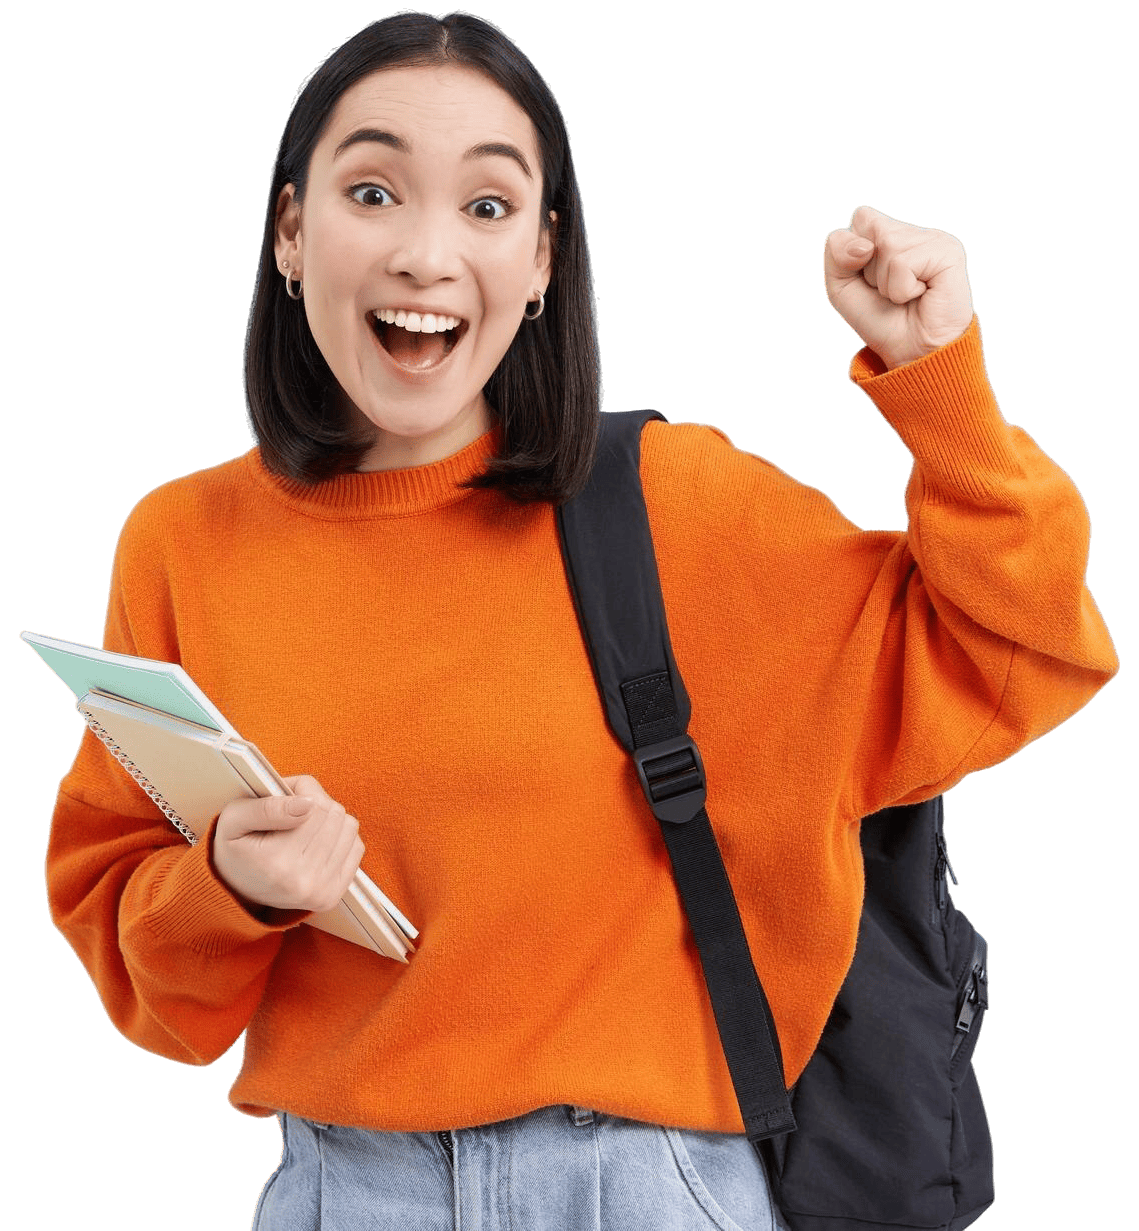
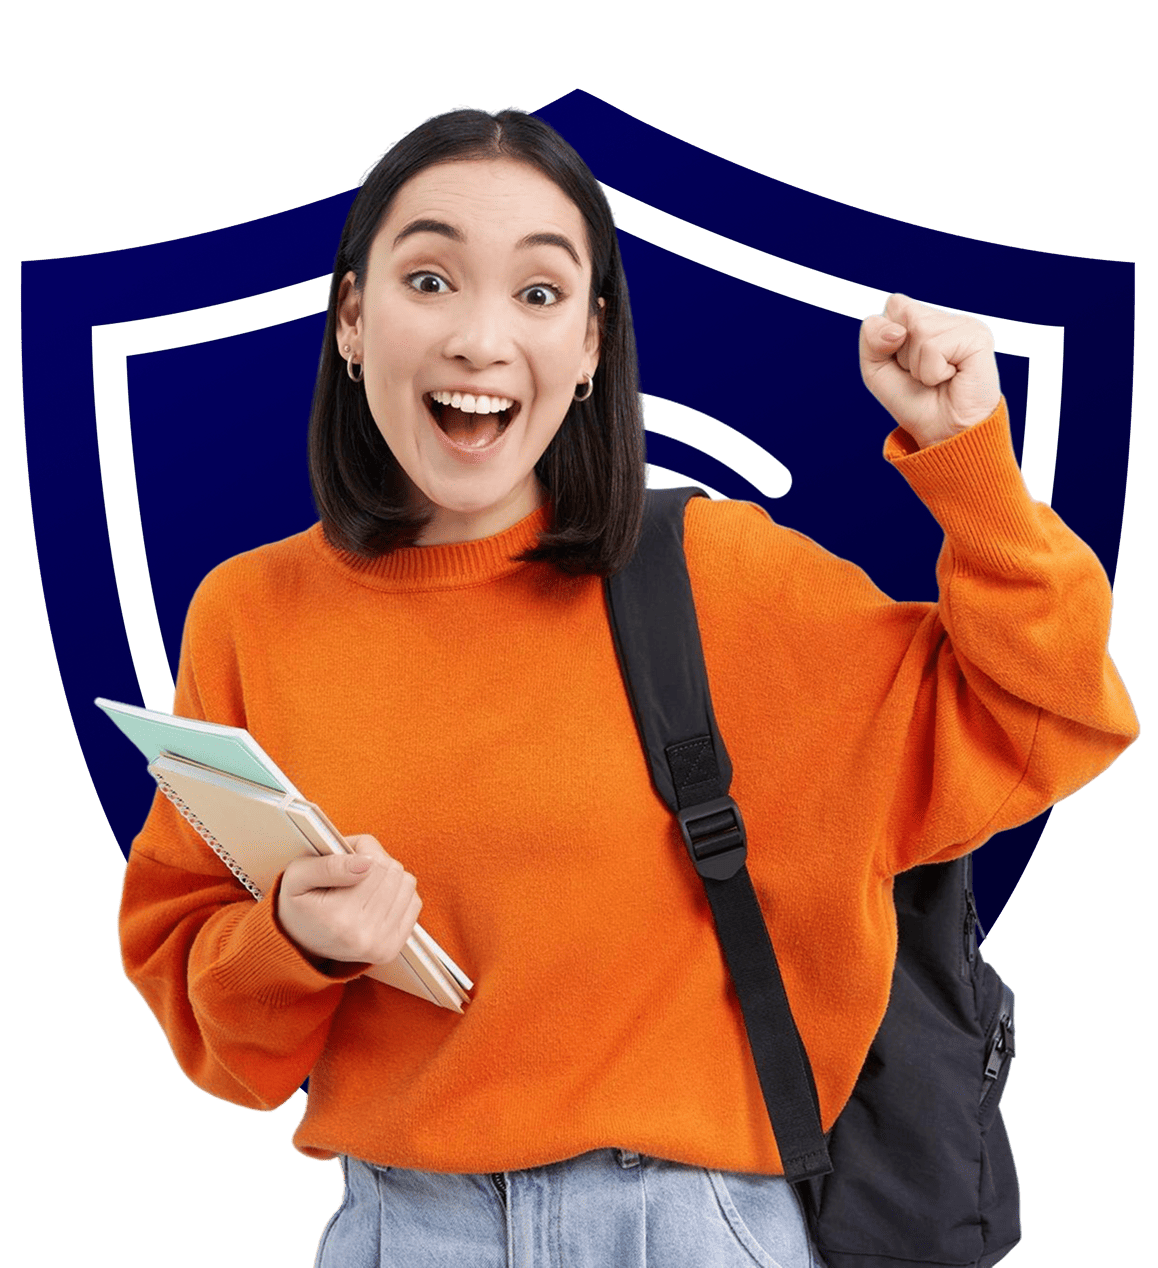
updates

diff --git a/index.html b/index.html
@@ -600,23 +600,51 @@
     }
 
     .hero-image {
+      position: relative;
       display: flex;
       justify-content: center;
-      align-items: stretch;
+      align-items: flex-end;
       height: 100%;
       min-height: 600px;
+      overflow: hidden;
+      padding: 0;
+      margin: 0;
+    }
+
+    .hero-image::before {
+      content: "";
+      position: absolute;
+      top: 45%;
+      left: 50%;
+      width: 100%;
+      height: 100%;
+      background-image: url('shield.png');
+      background-size: contain;
+      background-repeat: no-repeat;
+      background-position: center;
+      transform: translate(-50%, -50%) scale(0.8);
+      z-index: 1;
+      opacity: 0;
+      animation: shieldEntrance 2s cubic-bezier(0.4, 0, 0.2, 1) 1s forwards,
+                 shieldPulse 4s ease-in-out 3s infinite,
+                 shieldFloat 6s ease-in-out 3s infinite;
+      filter: drop-shadow(0 0 20px rgba(30, 58, 138, 0.3));
     }
 
     .hero-image img {
       width: 100%;
       height: 100%;
       object-fit: cover;
-      object-position: center;
+      object-position: center bottom;
       border-radius: 20px;
       opacity: 0;
       transform: translateX(60px) scale(0.9);
       animation: slideInRight 1.4s cubic-bezier(0.4, 0, 0.2, 1) 0.6s forwards;
       transition: transform 0.4s cubic-bezier(0.4, 0, 0.2, 1);
+      display: block;
+      align-self: flex-end;
+      position: relative;
+      z-index: 2;
     }
 
     /* Background Animation Keyframes */
@@ -1857,7 +1885,7 @@
       transition: all 0.3s ease;
       border: 2px solid transparent;
       background: linear-gradient(white, white) padding-box,
-                  linear-gradient(135deg, var(--royal-blue), var(--electric-blue)) border-box;
+        linear-gradient(135deg, var(--royal-blue), var(--electric-blue)) border-box;
     }
 
     .testimonial-info h4 {
@@ -2415,6 +2443,48 @@
       }
     }
 
+    /* Shield Animations */
+    @keyframes shieldEntrance {
+      0% {
+        opacity: 0;
+        transform: translate(-50%, -50%) scale(0.3) rotate(-10deg);
+        filter: drop-shadow(0 0 0px rgba(30, 58, 138, 0));
+      }
+      60% {
+        opacity: 0.5;
+        transform: translate(-50%, -50%) scale(1.1) rotate(2deg);
+        filter: drop-shadow(0 0 25px rgba(30, 58, 138, 0.4));
+      }
+      100% {
+        opacity: 1;
+        transform: translate(-50%, -50%) scale(1) rotate(0deg);
+        filter: drop-shadow(0 0 20px rgba(30, 58, 138, 0.3));
+      }
+    }
+
+    @keyframes shieldPulse {
+      0%, 100% {
+        /* opacity: 0.25; */
+        filter: drop-shadow(0 0 20px rgba(30, 58, 138, 0.3));
+      }
+      50% {
+        /* opacity: 0.4; */
+        filter: drop-shadow(0 0 35px rgba(30, 58, 138, 0.5));
+      }
+    }
+
+    @keyframes shieldFloat {
+      0%, 100% {
+        transform: translate(-50%, -50%) scale(1) translateY(0px) rotate(0deg);
+      }
+      33% {
+        transform: translate(-50%, -50%) scale(1) translateY(-8px) rotate(1deg);
+      }
+      66% {
+        transform: translate(-50%, -50%) scale(1) translateY(5px) rotate(-1deg);
+      }
+    }
+
     /* Animation Classes */
     .section-title {
       opacity: 0;
@@ -2464,6 +2534,19 @@
         max-width: 500px;
       }
 
+      .hero-image {
+        min-height: 500px;
+      }
+
+      .hero-image img {
+        width: 100%;
+        height: 100%;
+        object-fit: cover;
+        object-position: center bottom;
+        display: block;
+        align-self: flex-end;
+      }
+
       .features-grid {
         grid-template-columns: repeat(auto-fit, minmax(320px, 1fr));
         gap: 32px;
@@ -2508,7 +2591,17 @@
       }
 
       .hero-image {
-        min-height: 400px;
+        min-height: 350px;
+        margin-top: 20px;
+      }
+
+      .hero-image img {
+        width: 100%;
+        height: 100%;
+        object-fit: cover;
+        object-position: center bottom;
+        display: block;
+        align-self: flex-end;
       }
 
       .hero-content {
@@ -2823,6 +2916,21 @@
 
       .hero-stat .label {
         font-size: 12px;
+      }
+
+      .hero-image {
+        min-height: 280px;
+        margin-top: 30px;
+      }
+
+      .hero-image img {
+        width: 100%;
+        height: 100%;
+        object-fit: cover;
+        object-position: center bottom;
+        border-radius: 16px;
+        display: block;
+        align-self: flex-end;
       }
 
       .cta-section {
@@ -3837,7 +3945,8 @@
                 mobile app is incredibly user-friendly!"
               </div>
               <div class="testimonial-author">
-                <img src="https://images.unsplash.com/photo-1525134479668-1bee5c7c6845?w=100&h=100&fit=crop&crop=face" alt="Maria Santos" class="testimonial-avatar" />
+                <img src="https://images.unsplash.com/photo-1525134479668-1bee5c7c6845?w=100&h=100&fit=crop&crop=face"
+                  alt="Maria Santos" class="testimonial-avatar" />
                 <div class="testimonial-info">
                   <h4>Maria Santos</h4>
                   <p>Parent</p>
@@ -3859,7 +3968,8 @@
                 learning environment."
               </div>
               <div class="testimonial-author">
-                <img src="https://images.unsplash.com/photo-1472099645785-5658abf4ff4e?w=100&h=100&fit=crop&crop=face" alt="Dr. James Rodriguez" class="testimonial-avatar" />
+                <img src="https://images.unsplash.com/photo-1472099645785-5658abf4ff4e?w=100&h=100&fit=crop&crop=face"
+                  alt="Dr. James Rodriguez" class="testimonial-avatar" />
                 <div class="testimonial-info">
                   <h4>Dr. James Rodriguez</h4>
                   <p>School Principal</p>
@@ -3881,7 +3991,8 @@
                 team was excellent."
               </div>
               <div class="testimonial-author">
-                <img src="https://images.unsplash.com/photo-1438761681033-6461ffad8d80?w=100&h=100&fit=crop&crop=face" alt="Angela Chen" class="testimonial-avatar" />
+                <img src="https://images.unsplash.com/photo-1438761681033-6461ffad8d80?w=100&h=100&fit=crop&crop=face"
+                  alt="Angela Chen" class="testimonial-avatar" />
                 <div class="testimonial-info">
                   <h4>Angela Chen</h4>
                   <p>Vice Principal</p>
@@ -3903,7 +4014,8 @@
                 school experience."
               </div>
               <div class="testimonial-author">
-                <img src="https://images.unsplash.com/photo-1507003211169-0a1dd7228f2d?w=100&h=100&fit=crop&crop=face" alt="Robert Thompson" class="testimonial-avatar" />
+                <img src="https://images.unsplash.com/photo-1507003211169-0a1dd7228f2d?w=100&h=100&fit=crop&crop=face"
+                  alt="Robert Thompson" class="testimonial-avatar" />
                 <div class="testimonial-info">
                   <h4>Robert Thompson</h4>
                   <p>Parent of Two</p>
@@ -3925,7 +4037,8 @@
                 students safe."
               </div>
               <div class="testimonial-author">
-                <img src="https://images.unsplash.com/photo-1573496359142-b8d87734a5a2?w=100&h=100&fit=crop&crop=face" alt="Linda Foster" class="testimonial-avatar" />
+                <img src="https://images.unsplash.com/photo-1573496359142-b8d87734a5a2?w=100&h=100&fit=crop&crop=face"
+                  alt="Linda Foster" class="testimonial-avatar" />
                 <div class="testimonial-info">
                   <h4>Linda Foster</h4>
                   <p>Security Coordinator</p>
@@ -3947,7 +4060,8 @@
                 connection significantly."
               </div>
               <div class="testimonial-author">
-                <img src="https://images.unsplash.com/photo-1544725176-7c40e5a71c5e?w=100&h=100&fit=crop&crop=face" alt="Sarah Williams" class="testimonial-avatar" />
+                <img src="https://images.unsplash.com/photo-1544725176-7c40e5a71c5e?w=100&h=100&fit=crop&crop=face"
+                  alt="Sarah Williams" class="testimonial-avatar" />
                 <div class="testimonial-info">
                   <h4>Sarah Williams</h4>
                   <p>Elementary Teacher</p>
@@ -3970,7 +4084,8 @@
                 mobile app is incredibly user-friendly!"
               </div>
               <div class="testimonial-author">
-                <img src="https://images.unsplash.com/photo-1494790108755-2616b612b47c?w=100&h=100&fit=crop&crop=face" alt="Maria Santos" class="testimonial-avatar" />
+                <img src="https://images.unsplash.com/photo-1494790108755-2616b612b47c?w=100&h=100&fit=crop&crop=face"
+                  alt="Maria Santos" class="testimonial-avatar" />
                 <div class="testimonial-info">
                   <h4>Maria Santos</h4>
                   <p>Parent</p>
@@ -3992,7 +4107,8 @@
                 learning environment."
               </div>
               <div class="testimonial-author">
-                <img src="https://images.unsplash.com/photo-1472099645785-5658abf4ff4e?w=100&h=100&fit=crop&crop=face" alt="Dr. James Rodriguez" class="testimonial-avatar" />
+                <img src="https://images.unsplash.com/photo-1472099645785-5658abf4ff4e?w=100&h=100&fit=crop&crop=face"
+                  alt="Dr. James Rodriguez" class="testimonial-avatar" />
                 <div class="testimonial-info">
                   <h4>Dr. James Rodriguez</h4>
                   <p>School Principal</p>
@@ -4014,7 +4130,8 @@
                 team was excellent."
               </div>
               <div class="testimonial-author">
-                <img src="https://images.unsplash.com/photo-1438761681033-6461ffad8d80?w=100&h=100&fit=crop&crop=face" alt="Angela Chen" class="testimonial-avatar" />
+                <img src="https://images.unsplash.com/photo-1438761681033-6461ffad8d80?w=100&h=100&fit=crop&crop=face"
+                  alt="Angela Chen" class="testimonial-avatar" />
                 <div class="testimonial-info">
                   <h4>Angela Chen</h4>
                   <p>Vice Principal</p>
@@ -4036,7 +4153,8 @@
                 school experience."
               </div>
               <div class="testimonial-author">
-                <img src="https://images.unsplash.com/photo-1507003211169-0a1dd7228f2d?w=100&h=100&fit=crop&crop=face" alt="Robert Thompson" class="testimonial-avatar" />
+                <img src="https://images.unsplash.com/photo-1507003211169-0a1dd7228f2d?w=100&h=100&fit=crop&crop=face"
+                  alt="Robert Thompson" class="testimonial-avatar" />
                 <div class="testimonial-info">
                   <h4>Robert Thompson</h4>
                   <p>Parent of Two</p>
@@ -4058,7 +4176,8 @@
                 students safe."
               </div>
               <div class="testimonial-author">
-                <img src="https://images.unsplash.com/photo-1573496359142-b8d87734a5a2?w=100&h=100&fit=crop&crop=face" alt="Linda Foster" class="testimonial-avatar" />
+                <img src="https://images.unsplash.com/photo-1573496359142-b8d87734a5a2?w=100&h=100&fit=crop&crop=face"
+                  alt="Linda Foster" class="testimonial-avatar" />
                 <div class="testimonial-info">
                   <h4>Linda Foster</h4>
                   <p>Security Coordinator</p>
@@ -4080,7 +4199,8 @@
                 connection significantly."
               </div>
               <div class="testimonial-author">
-                <img src="https://images.unsplash.com/photo-1544725176-7c40e5a71c5e?w=100&h=100&fit=crop&crop=face" alt="Sarah Williams" class="testimonial-avatar" />
+                <img src="https://images.unsplash.com/photo-1544725176-7c40e5a71c5e?w=100&h=100&fit=crop&crop=face"
+                  alt="Sarah Williams" class="testimonial-avatar" />
                 <div class="testimonial-info">
                   <h4>Sarah Williams</h4>
                   <p>Elementary Teacher</p>
